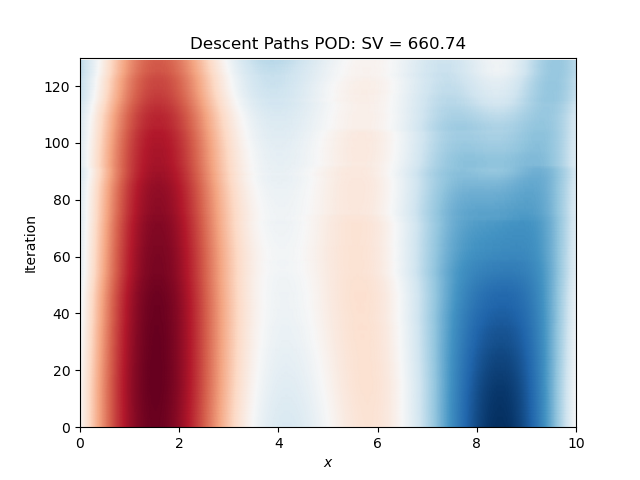
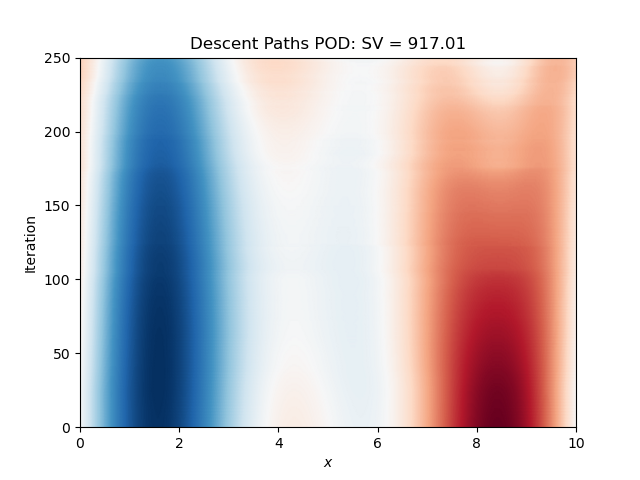
pod gaussian

diff --git a/adjop/kdv/paths_pod.py b/adjop/kdv/paths_pod.py
@@ -59,6 +59,10 @@ show_forward = config.getboolean('parameters', 'show')
 show_iter_cadence = config.getint('parameters', 'show_iter_cadence')
 show_loop_cadence = config.getint('parameters', 'show_loop_cadence')
 
+sig = config.getfloat('parameters', 'sig_ic')
+mu = config.getfloat('parameters', 'mu_ic')
+ic_scale = config.getfloat('parameters', 'ic_scale')
+
 # Bases
 xcoord = d3.Coordinate('x')
 dist = d3.Distributor(xcoord, dtype=np.float64, comm=MPI.COMM_SELF)
@@ -83,11 +87,7 @@ backward_solver = backward_problem.build_solver(d3.RK443)
 
 write_suffix = str(config.get('parameters', 'suffix'))
 
-soln = 2*np.sin(2*np.pi*x / Lx) + 2*np.sin(4*np.pi*x / Lx)
-# soln = np.exp(-np.power(x - mu, 2.) / (2 * np.power(sig, 2.)))
-soln_f = dist.Field(name='soln_f', bases=xbasis)
-soln_f['g'] = soln.reshape((1, N))
-
+U0 = ic_scale*np.exp(-np.power(x - mu, 2.) / (2 * np.power(sig, 2.)))
 guess = 0.0
 
 
@@ -101,6 +101,8 @@ mode1['g'] = np.sin(2*np.pi*x / Lx)
 mode2 = dist.Field(name='mode2', bases=xbasis)
 mode2['g'] = np.sin(4*np.pi*x / Lx)
 
+# U0 = mode1['g'].copy() + mode2['g'].copy()
+
 Nics = 20
 from mpl_toolkits.mplot3d import Axes3D
 xs, ys, zs = 1, 1, 0.1
@@ -112,7 +114,9 @@ for i in range(0, 20, 1):
     tracker_name = path + '/' + write_suffix + '/tracker_rank' + str(i) + '.pick'
     with open(tracker_name, 'rb') as file:
         tracker = pickle.load(file)
-    x0 = tracker['x'][:130]
+    x0 = tracker['x'][:]
+    for ind in range(len(x0)):
+        x0[ind] -= U0
     iters = len(x0)
     objs = tracker['objectiveT']
     logger.info('appending {}/{}'.format(i, Nics))
@@ -121,7 +125,7 @@ for i in range(0, 20, 1):
 
 data = np.array(data)
 
-comps = 5
+comps = 8
 pca = PCA(n_components=comps)
 pca.fit(data)
 print(pca.singular_values_)
